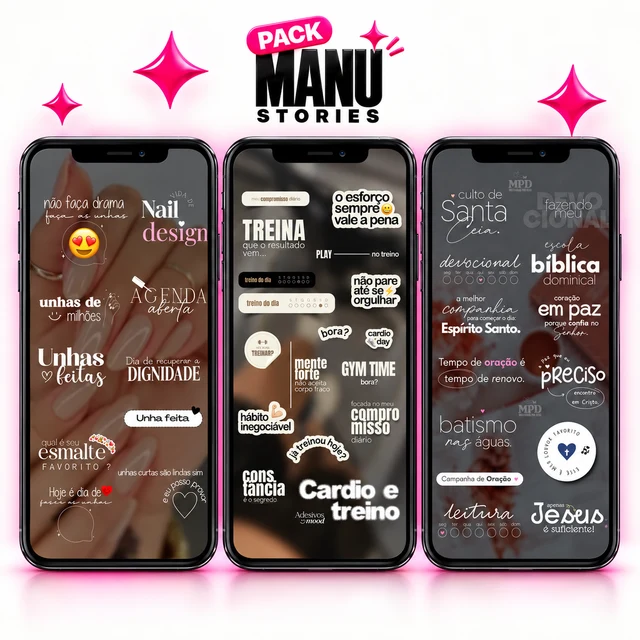
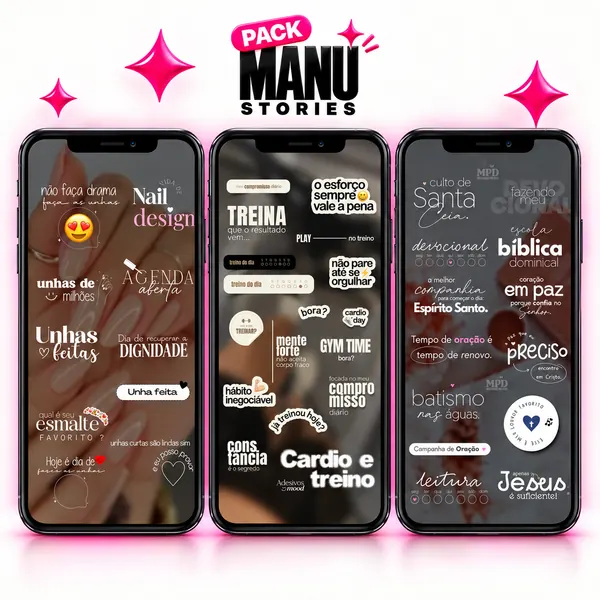
feat(hero): replace video with optimized hero mockups
Replace the hero video with responsive WebP mockups to improve page load times and core web vitals. Added fetchpriority and media queries for better LCP performance.

diff --git a/src/components/HeroSection.tsx b/src/components/HeroSection.tsx
@@ -1,7 +1,6 @@
 import React from 'react';
 import { ArrowRight } from 'lucide-react';
 import { UnderlineStroke } from './TitleAccents';
-import { DemoVideoPlayer } from './DemoVideoPlayer';
 
 export const HeroSection: React.FC = () => {
   return (
@@ -33,13 +32,21 @@ export const HeroSection: React.FC = () => {
           <p className="mt-3.5 text-sm sm:text-base md:text-lg text-neutral-600 max-w-xl font-sans-body leading-relaxed">
             Tenha +15.000 figurinhas e elementos prontos para usar em Stories de trabalho, rotina, academia, fé, beleza, comida, viagens e muito mais.
           </p>
-          <p className="mt-4 text-sm sm:text-base font-semibold text-neutral-800 font-sans-body">
-            Veja como funciona 👇🏼
-          </p>
 
-          {/* Hero Video Player (VTurb Style Stories format) - Demonstration of pack access */}
-          <div className="relative mt-8 sm:mt-10 w-full flex justify-center">
-            <DemoVideoPlayer videoId="xav7Ho6tYKw" />
+          {/* Hero Mockup - High converting visual presentation */}
+          <div className="relative mt-6 sm:mt-8 w-full max-w-[560px] sm:max-w-[620px] md:max-w-[680px] flex justify-center">
+            <picture className="w-full flex justify-center">
+              <source media="(max-width: 640px)" srcSet="/images/hero-mockup-new-mobile.webp" type="image/webp" />
+              <img
+                src="/images/hero-mockup-new.webp"
+                alt="Mockup do Pack Manu Stories com mais de 15.000 figurinhas e elementos"
+                width={960}
+                height={960}
+                fetchPriority="high"
+                decoding="async"
+                className="w-full h-auto object-contain drop-shadow-xl select-none"
+              />
+            </picture>
           </div>
 
           {/* CTA Buttons & Microcopy - placed below mockup */}

diff --git a/index.html b/index.html
@@ -80,8 +80,9 @@
     <meta property="og:type" content="website" />
     <meta name="twitter:card" content="summary_large_image" />
 
-    <!-- Preload Critical LCP Video Poster for Instant Hero Render (< 1.5s) -->
-    <link rel="preload" as="image" href="/video-poster-stories.jpg" fetchpriority="high" />
+    <!-- Preload Critical LCP Hero Mockup for Instant Hero Render (< 0.5s) -->
+    <link rel="preload" as="image" href="/images/hero-mockup-new-mobile.webp" media="(max-width: 640px)" type="image/webp" fetchpriority="high" />
+    <link rel="preload" as="image" href="/images/hero-mockup-new.webp" media="(min-width: 641px)" type="image/webp" fetchpriority="high" />
 
     <!-- Preconnect to Font Origin -->
     <link rel="preconnect" href="https://fonts.googleapis.com">
